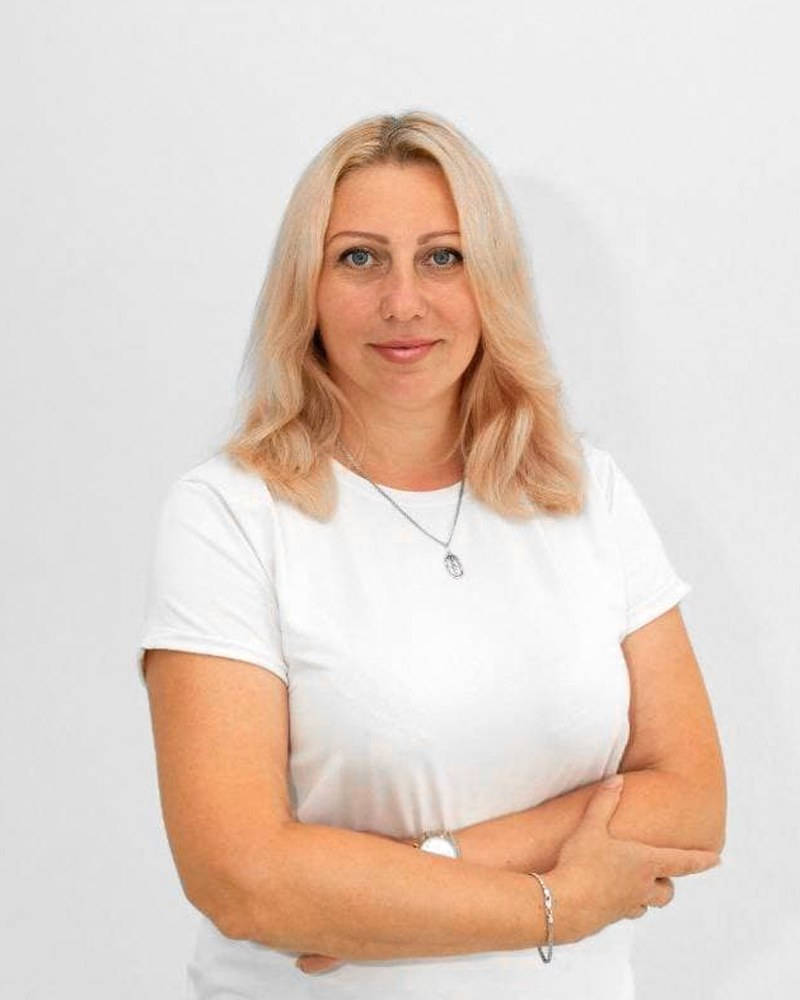
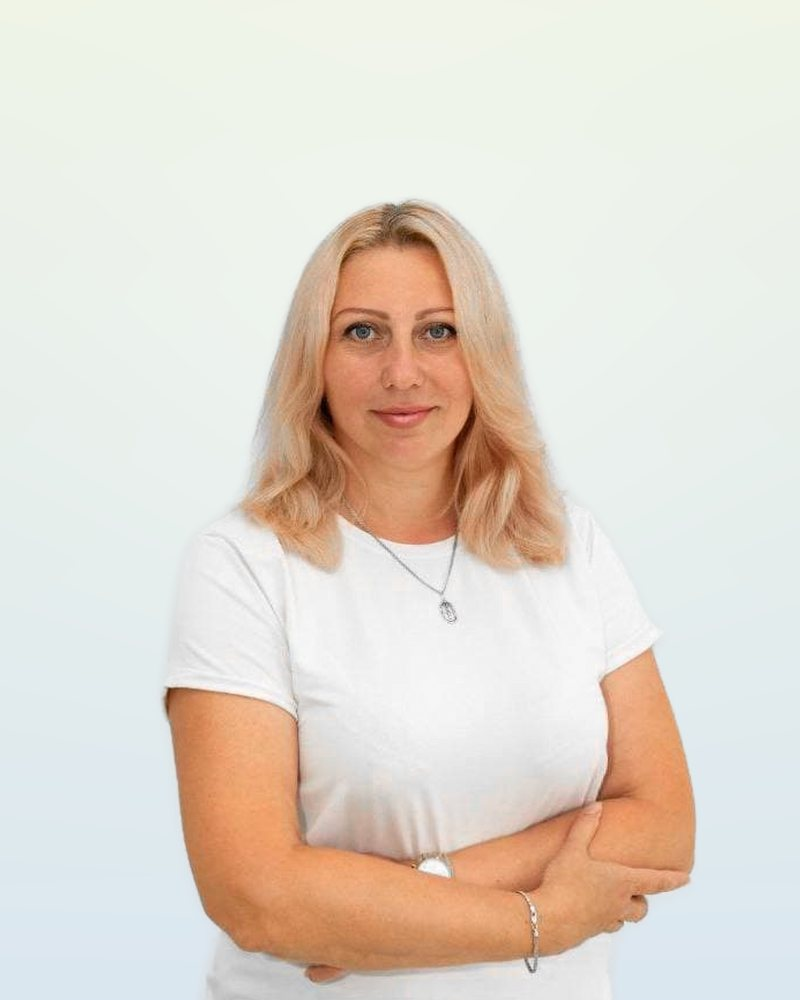
Команда: попередні фото Кальної та Яценти (на світлому фоні, як у Клімковської й Кузенко)
Claude-Session: https://claude.ai/code/session_01DcRWq93zDu7zhY14Qw9yXw

diff --git a/vs/content.js b/vs/content.js
@@ -276,8 +276,8 @@ window.SITE = {
   team: [
     { name: "Клімковська Світлана Іванівна", role: "Директор",                                       photo: "images/team/klimkovska.jpg?v=2" },
     { name: "Кузенко Галина Романівна",      role: "Заступник директора, вчитель початкових класів", photo: "images/team/kuzenko.jpg?v=2" },
-    { name: "Кальна Наталія Михайлівна",     role: "Заступник директора, вчитель початкових класів", photo: "images/team/kalna.jpg" },
-    { name: "Яцента Надія Петрівна",         role: "Заступник директора, вчитель географії",          photo: "images/team/yacenta.jpg" }
+    { name: "Кальна Наталія Михайлівна",     role: "Заступник директора, вчитель початкових класів", photo: "images/team/kalna.jpg?v=2" },
+    { name: "Яцента Надія Петрівна",         role: "Заступник директора, вчитель географії",          photo: "images/team/yacenta.jpg?v=2" }
   ],
 
   /* ---------- УСЯ КОМАНДА (розгортається на головній кнопкою «Уся команда») ----------
@@ -288,8 +288,8 @@ window.SITE = {
     { dept: "Адміністрація", people: [
       { name: "Клімковська Світлана Іванівна", role: "Директор", photo: "images/team/klimkovska.jpg?v=2" },
       { name: "Кузенко Галина Романівна", role: "Заступник директора, вчитель початкових класів", photo: "images/team/kuzenko.jpg?v=2" },
-      { name: "Кальна Наталія Михайлівна", role: "Заступник директора, вчитель початкових класів", photo: "images/team/kalna.jpg" },
-      { name: "Яцента Надія Петрівна", role: "Заступник директора, вчитель географії", photo: "images/team/yacenta.jpg" }
+      { name: "Кальна Наталія Михайлівна", role: "Заступник директора, вчитель початкових класів", photo: "images/team/kalna.jpg?v=2" },
+      { name: "Яцента Надія Петрівна", role: "Заступник директора, вчитель географії", photo: "images/team/yacenta.jpg?v=2" }
     ] },
     { dept: "Бухгалтерія", people: [
       { name: "Гладинюк Ірина Любомирівна", role: "Бухгалтер", photo: "images/team/hladyniuk.jpg" },
@@ -299,11 +299,11 @@ window.SITE = {
       { name: "Нич Тетяна Романівна", role: "Вчитель початкових класів", photo: "images/team/nych.jpg" },
       { name: "Береснєва Ольга Василівна", role: "Вчитель початкових класів", photo: "images/team/beresnieva.jpg" },
       { name: "Єфремова Тетяна Анатоліївна", role: "Вчитель початкових класів", photo: "images/team/iefremova.jpg" },
-      { name: "Кальна Наталія Михайлівна", role: "Заступник директора, вчитель початкових класів", photo: "images/team/kalna.jpg" },
+      { name: "Кальна Наталія Михайлівна", role: "Заступник директора, вчитель початкових класів", photo: "images/team/kalna.jpg?v=2" },
       { name: "Семків Ірина Вікторівна", role: "Вчитель початкових класів", photo: "images/team/semkiv.jpg" },
       { name: "Кузенко Галина Романівна", role: "Заступник директора, вчитель початкових класів", photo: "images/team/kuzenko.jpg?v=2" },
       { name: "Стецюк Тетяна Михайлівна", role: "Вчитель української мови та літератури", photo: "images/team/stetsiuk.jpg" },
-      { name: "Яцента Надія Петрівна", role: "Заступник директора, вчитель географії", photo: "images/team/yacenta.jpg" },
+      { name: "Яцента Надія Петрівна", role: "Заступник директора, вчитель географії", photo: "images/team/yacenta.jpg?v=2" },
       { name: "Журавська Лілія Миколаївна", role: "Психолог", photo: "images/team/zhuravska.jpg" },
       { name: "Підлеснюк Іванна Василівна", role: "Вчитель англійської мови", photo: "images/team/pidlesniuk.jpg" },
       { name: "Івонюк Вікторія Петрівна", role: "Вчитель англійської мови", photo: "images/team/ivoniuk.jpg" },
@@ -317,7 +317,7 @@ window.SITE = {
       { name: "Нич Тетяна Романівна", role: "Вчитель початкових класів", photo: "images/team/nych.jpg" },
       { name: "Береснєва Ольга Василівна", role: "Вчитель початкових класів", photo: "images/team/beresnieva.jpg" },
       { name: "Єфремова Тетяна Анатоліївна", role: "Вчитель початкових класів", photo: "images/team/iefremova.jpg" },
-      { name: "Кальна Наталія Михайлівна", role: "Заступник директора, вчитель початкових класів", photo: "images/team/kalna.jpg" },
+      { name: "Кальна Наталія Михайлівна", role: "Заступник директора, вчитель початкових класів", photo: "images/team/kalna.jpg?v=2" },
       { name: "Семків Ірина Вікторівна", role: "Вчитель початкових класів", photo: "images/team/semkiv.jpg" },
       { name: "Кузенко Галина Романівна", role: "Заступник директора, вчитель початкових класів", photo: "images/team/kuzenko.jpg?v=2" },
       { name: "Савенкова Оксана Володимирівна", role: "Вчитель початкових класів", photo: "images/team/savenkova-o.jpg" },
@@ -330,7 +330,7 @@ window.SITE = {
       { name: "Шацький Юрій Іванович", role: "Вчитель інформатики", photo: "images/team/shatskyi.jpg" },
       { name: "Андрухів Марія Павлівна", role: "Вчитель фізики", photo: "images/team/andrukhiv.jpg" },
       { name: "Сенюк Надія Михайлівна", role: "Вчитель біології та хімії", photo: "images/team/seniuk.jpg" },
-      { name: "Яцента Надія Петрівна", role: "Заступник директора, вчитель географії", photo: "images/team/yacenta.jpg" }
+      { name: "Яцента Надія Петрівна", role: "Заступник директора, вчитель географії", photo: "images/team/yacenta.jpg?v=2" }
     ] },
     { dept: "Кафедра суспільно-гуманітарного циклу", people: [
       { name: "Стецюк Тетяна Михайлівна", role: "Вчитель української мови та літератури", photo: "images/team/stetsiuk.jpg" },

diff --git a/index.html b/index.html
@@ -476,7 +476,7 @@
 
 <script src="https://cdnjs.cloudflare.com/ajax/libs/aos/2.3.4/aos.js"></script>
 <script src="https://cdnjs.cloudflare.com/ajax/libs/Swiper/11.0.5/swiper-bundle.min.js"></script>
-<script src="vs/content.js?v=202611032005"></script>
+<script src="vs/content.js?v=202611032017"></script>
 <script src="https://cdn.jsdelivr.net/npm/lenis@1.1.13/dist/lenis.min.js"></script>
 <script src="vs/player.js?v=202610300817"></script>
 <script src="vs/nav.js?v=202611032012"></script>

diff --git a/documents.html b/documents.html
@@ -142,7 +142,7 @@
 </div>
 
 <script src="https://cdnjs.cloudflare.com/ajax/libs/aos/2.3.4/aos.js"></script>
-<script src="vs/content.js?v=202611032005"></script>
+<script src="vs/content.js?v=202611032017"></script>
 <script src="https://cdn.jsdelivr.net/npm/lenis@1.1.13/dist/lenis.min.js"></script>
 <script src="vs/player.js?v=202610300817"></script>
 <script src="vs/nav.js?v=202611032012"></script>

diff --git a/news.html b/news.html
@@ -142,7 +142,7 @@
 </div>
 
 <script src="https://cdnjs.cloudflare.com/ajax/libs/aos/2.3.4/aos.js"></script>
-<script src="vs/content.js?v=202611032005"></script>
+<script src="vs/content.js?v=202611032017"></script>
 <script src="https://cdn.jsdelivr.net/npm/lenis@1.1.13/dist/lenis.min.js"></script>
 <script src="vs/player.js?v=202610300817"></script>
 <script src="vs/nav.js?v=202611032012"></script>
